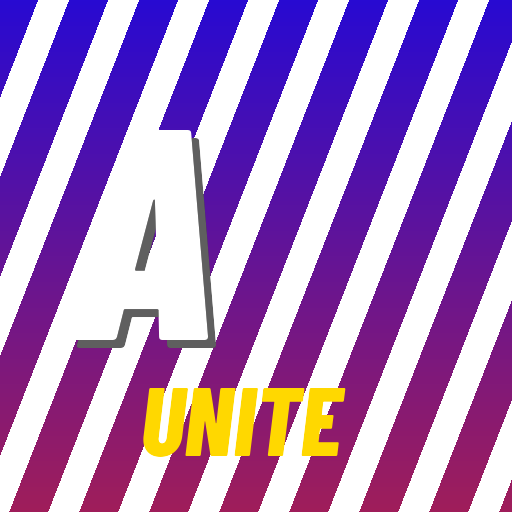
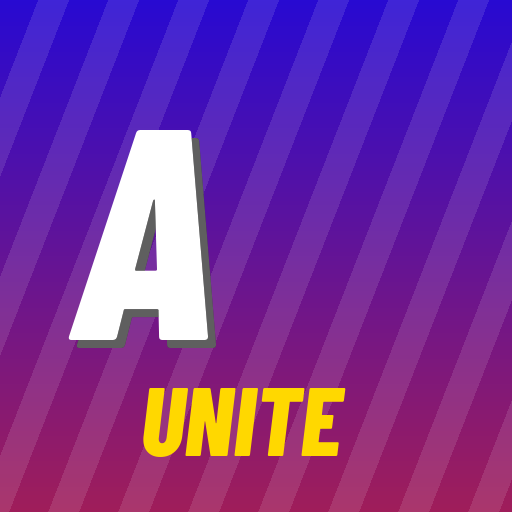
Panneaux publicitaires orientés vers les pilotes, flèches de rampe, icône corrigée, compression des libs natives
Claude-Session: https://claude.ai/code/session_016PrToQqU6Hu8X25TMCEojf

diff --git a/tools/gen_textures.py b/tools/gen_textures.py
@@ -681,8 +681,12 @@ def app_icon():
         t = y / S
         c = (int(40 + 120 * t), int(10 + 20 * t), int(90 + 120 * (1 - t)), 255)
         d.line([0, y, S, y], fill=c)
+    stripes = Image.new("RGBA", (S, S), (0, 0, 0, 0))
+    sd = ImageDraw.Draw(stripes)
     for k in range(-S, S * 2, 70):
-        d.polygon([(k, S), (k + 30, S), (k + 230, 0), (k + 200, 0)], fill=(255, 255, 255, 18))
+        sd.polygon([(k, S), (k + 30, S), (k + 230, 0), (k + 200, 0)], fill=(255, 255, 255, 28))
+    im = Image.alpha_composite(im, stripes)
+    d = ImageDraw.Draw(im)
     f = font(300)
     d.text((70 + 8, 40 + 8), "A", font=f, fill=(0, 0, 0, 160))
     d.text((70, 40), "A", font=f, fill=(255, 255, 255, 255))
